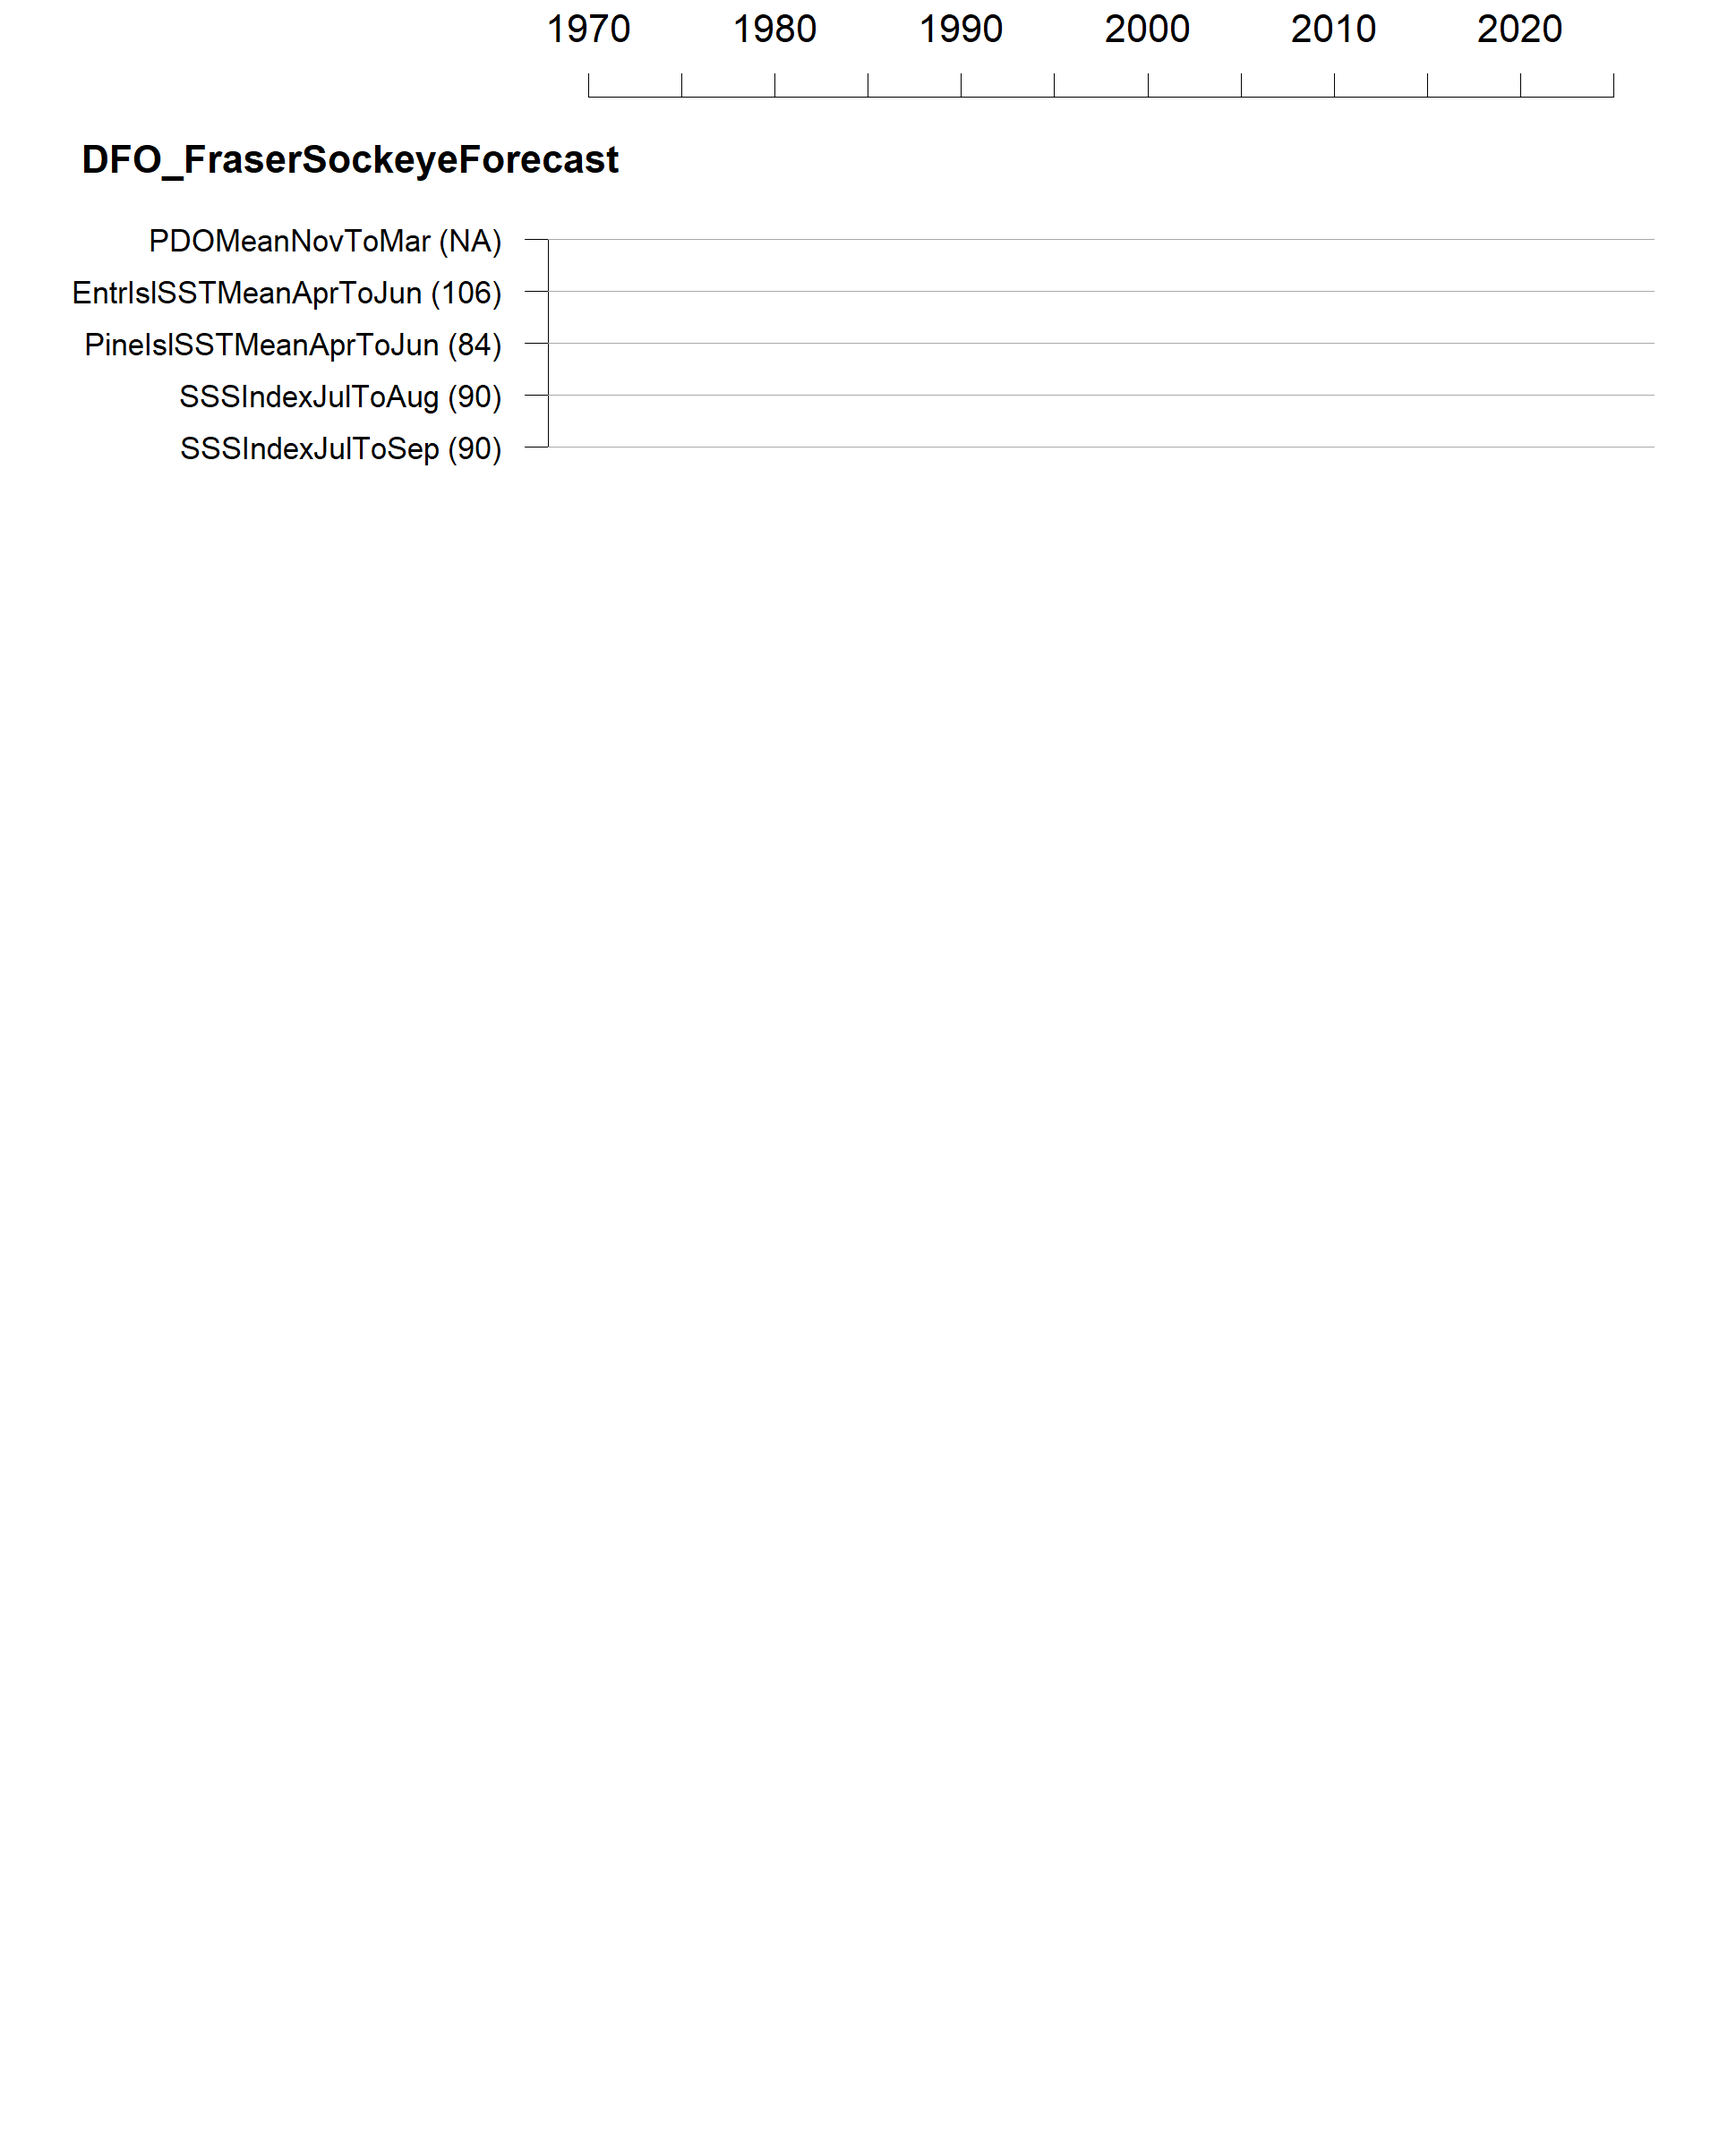
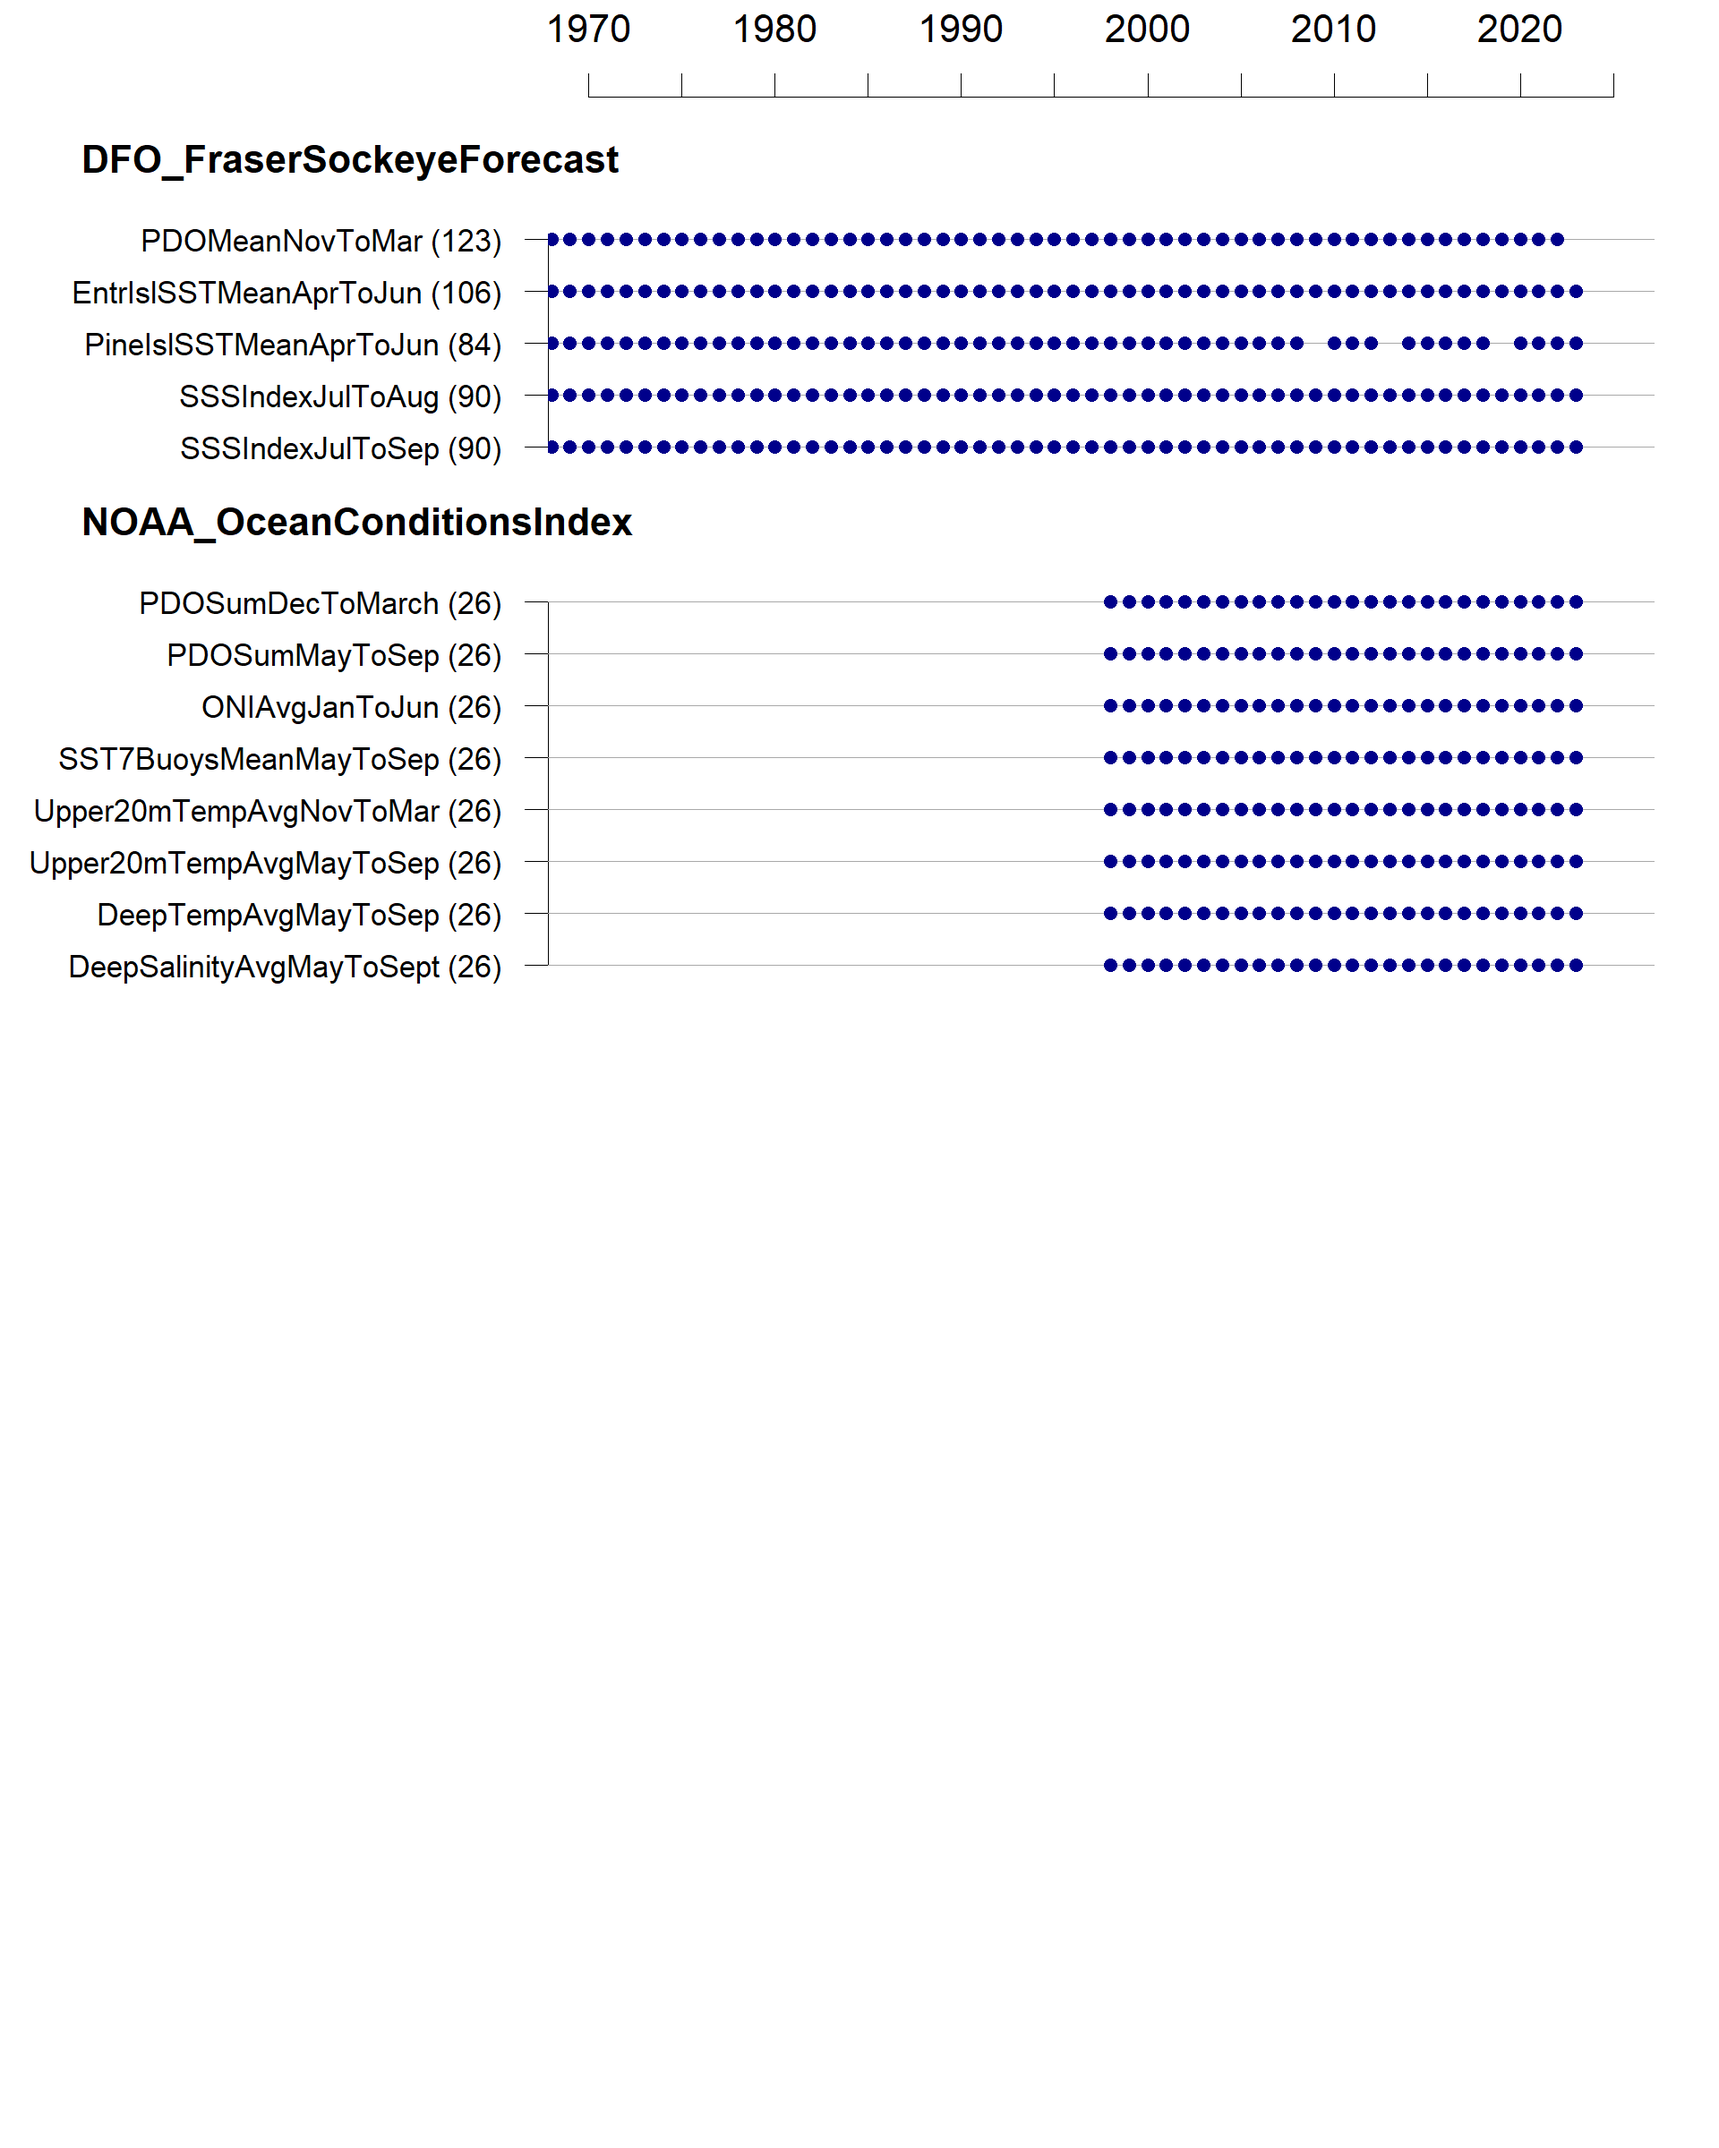
pdo comp drafting

Changed region(s): [[0.0, 0.0938, 0.9375, 0.4688], [0.625, 0.2812, 0.9375, 0.4688], [0.0938, 0.0938, 0.2812, 0.125]]

diff --git a/NOTES/PDO_Comparison/README.md b/NOTES/PDO_Comparison/README.md
@@ -18,11 +18,12 @@ Both the [DFO Fraser River Sockeye and Pink Forecast](https://github.com/SOLV-Co
 * *DFO Fraser Forecasting*  uses the **mean** of monthly PDO index values for Nov-Mar (just "Mean" below). 
 * *NOAA Ocean Conditions Index* (just "Sum" below) uses the **sum** of monthly PDO index values for Dec-Mar (just "Sum" below)
 
-Note: We've assigned the means and sums to the latter year (i.e., mean for Nov 2020 to March 2021 shows up as the 2021 indicator value)
+
+A potential source of discrepancies between alternative implementations is how environmental covariates are lined up with each other and with the salmon data. The DFO and NOAA implementations are consistent. The *NOAA Ocean Conditions Index* compares the PDO covariate with regional covariates like sea surface temperature in the same calendar year (e.g., rank of the sum of PDO index for Jan 2018 and rank of the sea surface temperature for May-Sep 2018 are combined into the mean rank for 2018). *DFO Fraser Forecasting* maps the PDO covariate to the winter preceding outmigration and the sea surface temperature covariate to ocean entry, which are in the same calendar year. In the [merged data set](https://github.com/SOLV-Code/Open-Source-Env-Cov-PacSalmon/blob/main/OUTPUT/Merged_CovariateSet.csv) and the [detailed PDO comparison data set] we replicate this by assigning the means and sums to the latter year (i.e., mean for Nov 2020 to March 2021 shows up as the 2021 indicator value).
 
 **Some initial observations**
 
-Scatterplots show that the two versions of the winter PDO variable provide the same signal *for the same year*. Years with low mean values also have a low sum (e.g., 2000, 2009,2012,2022) and years with high mean values also have a high sum (e.g., 1998, 2003, 2015, 2016). 
+Scatterplots show that the two versions of the winter PDO variable provide the same signal for the same year. Years with low mean values also have a low sum (e.g., 2000, 2009,2012,2022) and years with high mean values also have a high sum (e.g., 1998, 2003, 2015, 2016). 
 
 
 <img src="https://github.com/SOLV-Code/Open-Source-Env-Cov-PacSalmon/blob/main/OUTPUT/PDO_Comparisons/PDO_Comparisons_Scatter_All.png"
